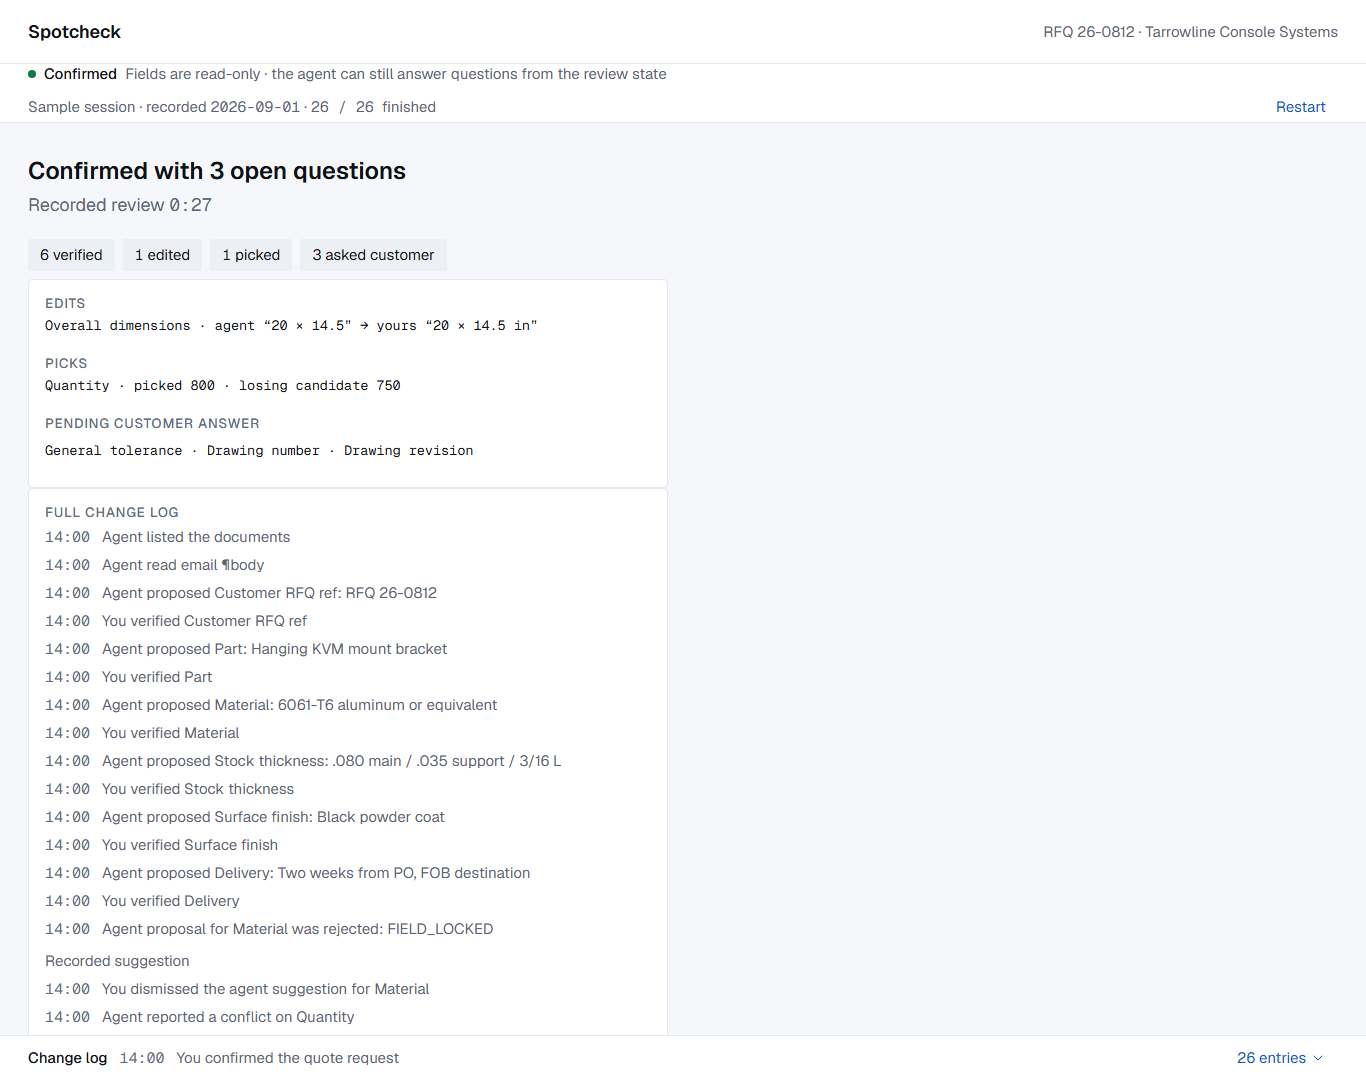
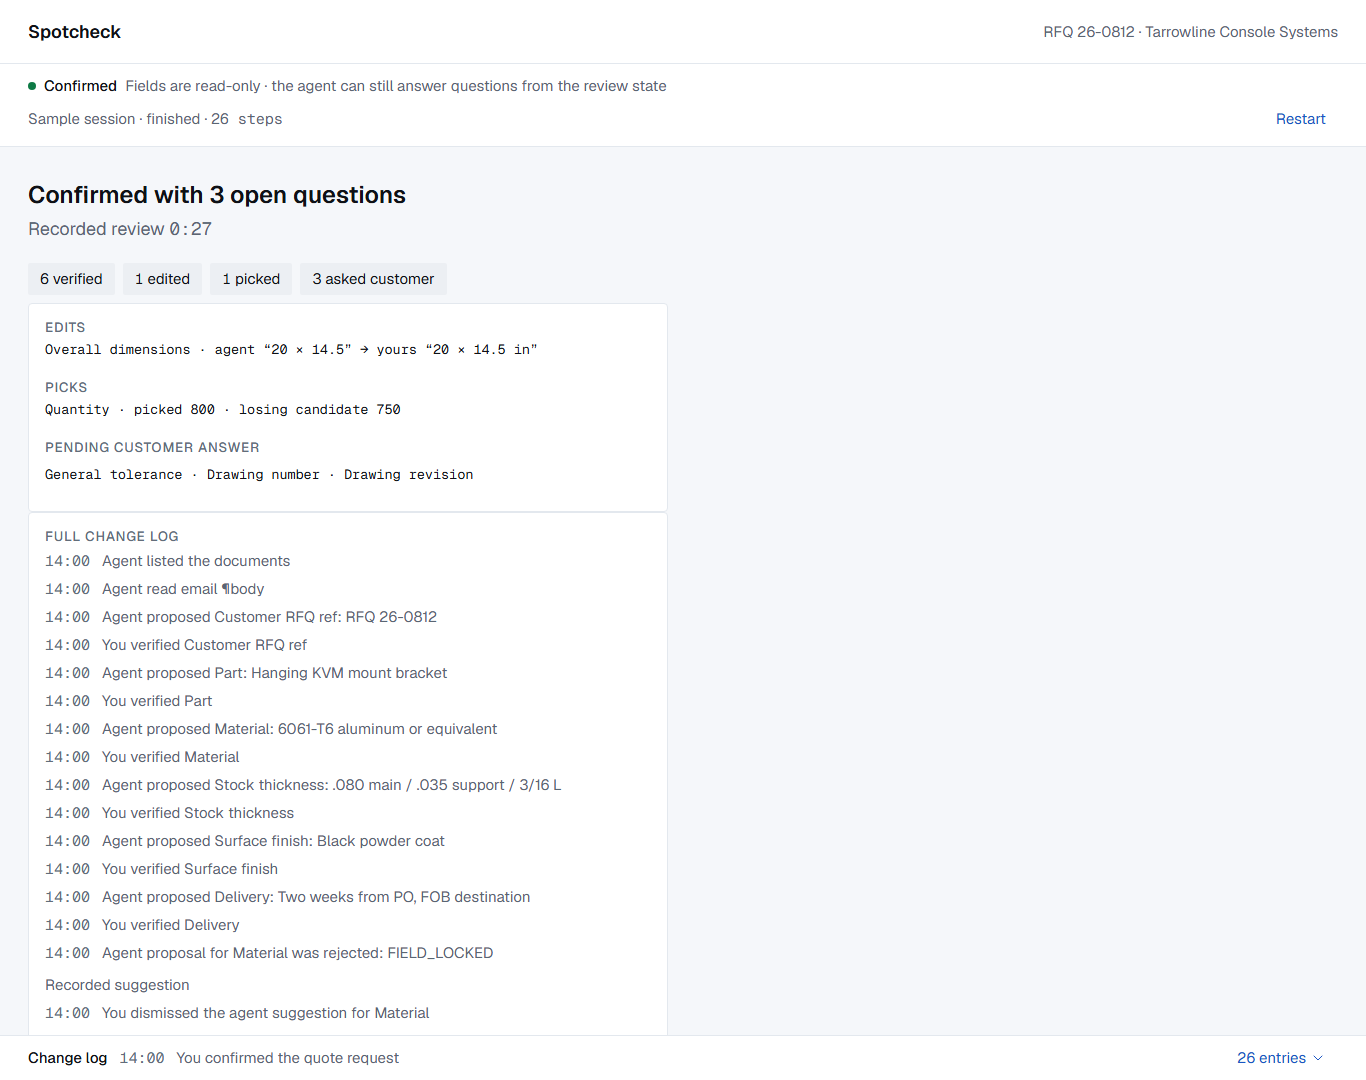
P3.1 replay row: watch, stop, step, start again
The row says where the recording is and offers only what the state
needs: Pause while it plays, Play with Next step and Restart while it
is paused, Restart when it has finished or stopped. The next-step
phrase appears only while paused, the control slot holds the width of
the three-button set so nothing shifts, and the strip grows around the
row instead of standing it on the hairline. Export session lives in the
log drawer and the summary.

Changed region(s): [[0.0, 0.1528, 0.3997, 0.9472], [0.0, 0.0611, 0.4919, 0.1222], [0.9224, 0.0917, 0.9839, 0.1222]]

diff --git a/e2e/replay.spec.ts b/e2e/replay.spec.ts
@@ -11,7 +11,7 @@ const counter = (page: Page) => replay(page).locator('.numeric').last();
 const start = async (page: Page) => {
   await page.evaluate(() => document.fonts.ready);
   await page.getByRole('button', { name: 'Play sample session', exact: true }).click();
-  await expect(counter(page)).toHaveText(`0 / ${total}`);
+  await expect(counter(page)).toHaveText(`0 of ${total}`);
 };
 const finish = async (page: Page) => {
   await page.evaluate(() => document.fonts.ready);
@@ -58,17 +58,21 @@ test('B1 controls advance, pause, step, restart and confirm; live strip exports'
   await replay(page).getByRole('button', { name: 'Pause' }).click();
   await page.clock.runFor(5000);
   await expect(counter(page)).toHaveText(advanced!);
-  await replay(page).getByRole('button', { name: 'Next call' }).click();
-  await expect(counter(page)).toHaveText(`${Number(advanced!.split(' / ')[0]) + 1} / ${total}`);
-  const exported = await download(page, '.status-strip');
+  await replay(page).getByRole('button', { name: 'Next step' }).click();
+  await expect(counter(page)).toHaveText(`${Number(advanced!.split(' of ')[0]) + 1} of ${total}`);
+  // Export leaves the strip: it lives in the log drawer and in the summary.
+  await expect(page.locator('.status-strip').getByRole('button', { name: 'Export session' })).toHaveCount(0);
+  await page.getByRole('button', { name: /entr(y|ies)$/ }).click();
+  const exported = await download(page, '.change-log');
   expect(exported.data.steps.length).toBeGreaterThan(0);
+  await page.getByRole('button', { name: 'Close' }).click();
   await replay(page).getByRole('button', { name: 'Restart' }).click();
-  await expect(counter(page)).toHaveText(`0 / ${total}`);
+  await expect(counter(page)).toHaveText(`0 of ${total}`);
   await expect(page.locator('.field-row__badge')).toHaveCount(11);
   await expect(page.locator('.field-row__badge').filter({ hasText: 'Not extracted' })).toHaveCount(11);
   await expect(replay(page).getByRole('button', { name: 'Play', exact: true })).toBeFocused();
   await finish(page);
-  await expect(counter(page)).toHaveText(`${total} / ${total}`);
+  await expect(replay(page)).toContainText(`finished · ${total} steps`);
   await expect(replay(page).getByRole('button')).toHaveCount(1);
   await expect(page.locator('.status-strip__summary')).toContainText('Confirmed');
   await expect(page.locator('.status-strip').getByRole('button', { name: 'Export session' })).toHaveCount(0);
@@ -98,7 +102,7 @@ test('take-over logs the skipped estimator step and viewer confirmation shows bo
   await replay(page).getByRole('button', { name: 'Pause' }).click();
   await page.locator('[data-field-id="customer_rfq_ref"]').getByRole('button', { name: 'Verify', exact: true }).click();
   const confirmIndex = fixture.steps.findIndex(step => step.actor === 'estimator' && step.action?.type === 'confirm');
-  while (Number((await counter(page).innerText()).split(' / ')[0]) < confirmIndex) await replay(page).getByRole('button', { name: 'Next call' }).click();
+  while (Number((await counter(page).innerText()).split(' of ')[0]) < confirmIndex) await replay(page).getByRole('button', { name: 'Next step' }).click();
   await page.clock.runFor(120_000);
   await page.getByRole('button', { name: 'Confirm quote request' }).click();
   await expect(page.locator('.confirm-summary__timer')).toContainText(/Recorded review .* · this run 2:/);
@@ -166,19 +170,21 @@ for (const width of [1920, 1366, 390]) {
       await page.screenshot({ path, animations: 'disabled' });
       await testInfo.attach(`${state}-${width}`, { path, contentType: 'image/png' });
       expect(await page.evaluate(() => document.documentElement.scrollWidth <= innerWidth)).toBe(true);
-      expect(await counter(page).evaluate(element => element.getBoundingClientRect().height)).toBeLessThanOrEqual(20);
+      // A stopped row carries a message instead of a count.
+      if (await counter(page).count()) {
+        expect(await counter(page).evaluate(element => element.getBoundingClientRect().height)).toBeLessThanOrEqual(20);
+      }
       for (const button of await replay(page).getByRole('button').all()) {
         const box = (await button.boundingBox())!;
         expect(box.height).toBeGreaterThanOrEqual(width < 1024 ? 44 : 24);
       }
     };
-    await start(page); await page.clock.runFor(3000); await capture('playing');
-    await replay(page).getByRole('button', { name: 'Pause' }).click(); await capture('paused');
-    if (width < 1024) {
-      const text = (await page.locator('.replay-controls__text').boundingBox())!;
-      const actions = (await page.locator('.replay-controls__actions').boundingBox())!;
-      expect(actions.y).toBeGreaterThanOrEqual(text.y + text.height);
-    }
+    await start(page); await page.clock.runFor(3000);
+    await expect(replay(page).getByRole('button')).toHaveCount(1);
+    await capture('playing');
+    await replay(page).getByRole('button', { name: 'Pause' }).click();
+    await expect(replay(page).getByRole('button')).toHaveCount(3);
+    await capture('paused');
     await finish(page); await capture('ended');
     await page.reload();
     await executeTool(page, 'propose_field', { field_id: 'delivery', value: 'A long delivery request for the complete powder-coated bracket assembly with all mounting hardware and packing documentation', source_refs: ['email:p5'] });
@@ -196,3 +202,35 @@ for (const width of [1920, 1366, 390]) {
     await capture('error');
   });
 }
+
+// The row's whole job is to be readable while it runs: one line of text with
+// the controls beside it, and nothing moving as the state changes.
+for (const width of [770, 820, 1024]) {
+  test(`${width}px keeps the replay text on one line with the controls beside it`, async ({ page }) => {
+    await page.setViewportSize({ width, height: 900 });
+    await page.goto('/');
+    await start(page);
+    await page.clock.runFor(3000);
+
+    const measure = async () => {
+      await page.evaluate(() => document.fonts.ready);
+      const line = (await replay(page).locator('.replay-controls__text > span').first().boundingBox())!;
+      const actions = (await page.locator('.replay-controls__actions').boundingBox())!;
+      const leading = await page.locator('.replay-controls').evaluate(element => Number.parseFloat(getComputedStyle(element).lineHeight));
+      return { lines: Math.round(line.height / leading), actionsX: actions.x, lineY: line.y, actionsY: actions.y };
+    };
+
+    const playing = await measure();
+    expect(playing.lines).toBe(1);
+    expect(playing.actionsY).toBeLessThan(playing.lineY + leadingGuard);
+
+    await replay(page).getByRole('button', { name: 'Pause' }).click();
+    const paused = await measure();
+    expect(paused.lines).toBe(1);
+    expect(paused.actionsY).toBeLessThan(paused.lineY + leadingGuard);
+    // The slot is the width of the three-button set, so nothing shifts.
+    expect(paused.actionsX).toBe(playing.actionsX);
+  });
+}
+
+const leadingGuard = 24;

diff --git a/src/components/ReplayControls.test.tsx b/src/components/ReplayControls.test.tsx
@@ -8,28 +8,51 @@ import { ReplayControls } from './ReplayControls';
 
 afterEach(async () => { cleanup(); await controller.leave(); localStorage.clear(); vi.restoreAllMocks(); });
 
-test('playing and paused controls preserve focus; restart focuses Play and resets the counter', async () => {
+const row = () => document.querySelector('.replay-controls__text')!;
+const buttons = () => screen.getAllByRole('button').map(button => button.textContent);
+
+test('playing offers Pause alone and names the recording, the step and the total', async () => {
   await controller.startSample();
   render(<ReplayControls />);
-  const toggle = screen.getByRole('button', { name: 'Pause' }); toggle.focus();
-  fireEvent.click(toggle);
-  expect(screen.getByRole('button', { name: 'Play' })).toHaveFocus();
-  await act(async () => { await controller.next(); });
-  fireEvent.click(screen.getByRole('button', { name: 'Restart' }));
-  expect(screen.getByRole('button', { name: 'Play' })).toHaveFocus();
-  expect(screen.getByText(`0 / ${controller.getSnapshot().total}`)).toBeInTheDocument();
+
+  expect(row()).toHaveTextContent(`Sample session · recorded 2026-09-01 · step 0 of ${controller.getSnapshot().total}`);
+  expect(row()).not.toHaveTextContent('next:');
+  expect(buttons()).toEqual(['Pause']);
 });
 
-test('Next call is disabled during an in-flight step', async () => {
+test('pausing adds the next step and the three controls, and keeps focus on the toggle', async () => {
+  await controller.startSample();
+  render(<ReplayControls />);
+  const toggle = screen.getByRole('button', { name: 'Pause' });
+  toggle.focus();
+  fireEvent.click(toggle);
+
+  expect(screen.getByRole('button', { name: 'Play' })).toHaveFocus();
+  expect(buttons()).toEqual(['Play', 'Next step', 'Restart']);
+  expect(row()).toHaveTextContent('next: agent lists the documents');
+});
+
+test('Restart resets the counter and focuses Play', async () => {
+  await controller.startSample();
+  render(<ReplayControls />);
+  fireEvent.click(screen.getByRole('button', { name: 'Pause' }));
+  await act(async () => { await controller.next(); });
+  fireEvent.click(screen.getByRole('button', { name: 'Restart' }));
+
+  expect(screen.getByRole('button', { name: 'Play' })).toHaveFocus();
+  expect(row()).toHaveTextContent(`step 0 of ${controller.getSnapshot().total}`);
+});
+
+test('Next step is disabled during an in-flight step', async () => {
   await controller.startSample(); controller.pause();
   let release!: () => void;
   vi.spyOn(tools, 'executeTool').mockImplementationOnce(() => new Promise(resolve => { release = () => resolve({}); }));
   render(<ReplayControls />);
   let pending!: Promise<boolean>;
   act(() => { pending = controller.next(); });
-  expect(screen.getByRole('button', { name: 'Next call' })).toBeDisabled();
+  expect(screen.getByRole('button', { name: 'Next step' })).toBeDisabled();
   await act(async () => { release(); await pending; });
-  expect(screen.getByRole('button', { name: 'Next call' })).toBeEnabled();
+  expect(screen.getByRole('button', { name: 'Next step' })).toBeEnabled();
 });
 
 test('focusPause falls back to Restart when the row carries no Pause', async () => {
@@ -42,14 +65,20 @@ test('focusPause falls back to Restart when the row carries no Pause', async () 
   expect(screen.getByRole('button', { name: 'Restart' })).toHaveFocus();
 });
 
-test('error and ended rows show Restart only with their status text', async () => {
+test('a stopped replay names the step it stopped on and offers Restart alone', async () => {
   await controller.startSample(); controller.pause();
   vi.spyOn(tools, 'executeTool').mockRejectedValueOnce(new Error('Tool unavailable'));
   render(<ReplayControls />);
   await act(async () => { await controller.next(); });
+
   expect(screen.getByText('stopped at step 1: Tool unavailable')).toBeInTheDocument();
-  expect(screen.getAllByRole('button')).toHaveLength(1);
-  await act(async () => { await controller.startImported({ recorded_at: '2026-09-01', steps: [] }); });
-  expect(screen.getByText('finished')).toBeInTheDocument();
-  expect(screen.getAllByRole('button')).toHaveLength(1);
+  expect(buttons()).toEqual(['Restart']);
+});
+
+test('a finished replay counts the steps it ran and offers Restart alone', async () => {
+  await act(async () => { await controller.startImported({ recorded_at: '2026-09-01', steps: [] }, 'Imported session'); });
+  render(<ReplayControls />);
+
+  expect(row()).toHaveTextContent('Imported session · finished · 0 steps');
+  expect(buttons()).toEqual(['Restart']);
 });

diff --git a/src/components/ReplayControls.tsx b/src/components/ReplayControls.tsx
@@ -1,13 +1,21 @@
 import { useEffect, useLayoutEffect, useRef, useState } from 'react';
+import { useNarrowLayout } from '../hooks/useNarrowLayout';
 import { useReplay } from '../hooks/useReplay';
 import { OpposingArrowsIcon } from '../icons';
+import { plural } from '../lib/format';
 import { next, pause, play, restart } from '../replay/controller';
 import { describeStep } from '../replay/describe';
 import { Button } from './Button';
 import { announce } from './LiveRegion';
 
+/**
+ * The replay serves one purpose: a person without an agent watches the recorded
+ * session at a human pace, stops to look, tries an action and starts again. The
+ * row says where the recording is and offers only the controls that state has.
+ */
 export function ReplayControls() {
   const replay = useReplay();
+  const narrow = useNarrowLayout();
   const toggle = useRef<HTMLButtonElement>(null);
   const restartButton = useRef<HTMLButtonElement>(null);
   const focused = useRef(replay.focusRequest);
@@ -22,19 +30,45 @@ export function ReplayControls() {
     (toggle.current ?? restartButton.current)?.focus();
   }, [replay.focusRequest]);
   if (!replay.active) return null;
+
+  const running = !replay.ended && !replay.error;
+  // "Sample session" narrows to "Sample": the lane below 1024 has no room for
+  // the recording date either, so the short line keeps the step count instead.
+  const short = replay.label.split(' ')[0];
+  const counter = <span className="numeric">{replay.position} of {replay.total}</span>;
+
   return (
     <div className="replay-controls" role="group" aria-label="Replay controls">
       <div className="replay-controls__text">
-        <span>{replay.label} · recorded <span className="numeric">{replay.recordedAt.slice(0, 10)}</span> · <span className="numeric">{replay.position} / {replay.total}</span></span>
-        {replay.error ? <span className="session-error"><OpposingArrowsIcon />stopped at step {replay.position + 1}: {replay.error}</span>
-          : <span className="replay-controls__next">{replay.ended ? 'finished' : replay.next ? `next: ${describeStep(replay.next)}` : ''}</span>}
+        {replay.error ? (
+          <span className="session-error"><OpposingArrowsIcon />stopped at step {replay.position + 1}: {replay.error}</span>
+        ) : replay.ended ? (
+          <span>{narrow ? `${short} · finished` : <>{replay.label} · finished · <span className="numeric">{plural(replay.total, 'step', 'steps')}</span></>}</span>
+        ) : (
+          <span>
+            {narrow
+              ? <>{short} · {counter}</>
+              : <>{replay.label} · recorded <span className="numeric">{replay.recordedAt.slice(0, 10)}</span> · step {counter}</>}
+          </span>
+        )}
+        {running && !replay.playing && replay.next ? (
+          <span className="replay-controls__next">next: {describeStep(replay.next)}</span>
+        ) : null}
       </div>
       <div className="replay-controls__actions">
-        {!replay.ended && !replay.error && <>
-          <Button ref={toggle} variant="secondary" onClick={replay.playing ? pause : play}>{replay.playing ? 'Pause' : 'Play'}</Button>
-          <Button variant="text" disabled={replay.busy} onClick={() => void next()}>Next call</Button>
-        </>}
-        <Button ref={restartButton} variant="text" disabled={replay.busy} onClick={() => { restart(); setRestartFocus(value => value + 1); }}>Restart</Button>
+        {running && (
+          <Button ref={toggle} variant="secondary" onClick={replay.playing ? pause : play}>
+            {replay.playing ? 'Pause' : 'Play'}
+          </Button>
+        )}
+        {running && !replay.playing && (
+          <Button variant="text" disabled={replay.busy} onClick={() => void next()}>Next step</Button>
+        )}
+        {!replay.playing && (
+          <Button ref={restartButton} variant="text" disabled={replay.busy} onClick={() => { restart(); setRestartFocus(value => value + 1); }}>
+            Restart
+          </Button>
+        )}
       </div>
     </div>
   );

diff --git a/src/styles/components.css b/src/styles/components.css
@@ -261,6 +261,8 @@
   font-weight: 600;
 }
 
+/* The strip's height is a floor, not a fixed value: the block padding stays
+   whatever the strip carries, so the replay row never sits on the hairline. */
 .status-strip {
   min-height: var(--control-large);
   position: relative;
@@ -268,12 +270,6 @@
   flex-direction: column;
   justify-content: center;
   gap: var(--space-2);
-}
-
-/* Before the first tool call the strip says what the page is; the two lines
-   then need the row padding the one-line states get from their min-height. */
-.status-strip--no-api,
-.status-strip--waiting {
   padding-block: var(--space-3);
 }
 
@@ -1474,6 +1470,26 @@
   color: var(--ink-secondary);
 }
 
+/* The slot holds the width of the three-button set (Play, Next step, Restart),
+   so moving between states never shifts the controls sideways. */
+.replay-controls__actions {
+  justify-content: flex-end;
+  min-width: calc(15 * var(--space-4));
+}
+
+/* Under the 680px column there is no room for the set beside the line, so the
+   row stacks and the slot gives its width back. */
+@media (width < 37.5rem) {
+  .replay-controls {
+    align-items: flex-start;
+    flex-direction: column;
+  }
+
+  .replay-controls__actions {
+    min-width: 0;
+  }
+}
+
 .replay-controls .numeric {
   white-space: nowrap;
 }
@@ -1526,25 +1542,10 @@
 }
 
 @media (max-width: 1023px) {
-  .status-strip:has(.replay-controls) .status-strip__line {
-    display: contents;
-  }
-
-  .status-strip__export-slot {
-    order: 2;
-  }
-
-  .status-strip__export-slot .button {
-    width: auto;
-  }
-
-  .replay-controls {
-    align-items: flex-start;
-    flex-direction: column;
-  }
-
-  .replay-controls__actions {
-    flex-wrap: wrap;
+  /* The controls stay beside the row text at every width; only the next-step
+     phrase drops to its own line under it. */
+  .replay-controls__next {
+    width: 100%;
   }
 
   .replay-controls .button--secondary {

diff --git a/src/components/StatusStrip.tsx b/src/components/StatusStrip.tsx
@@ -8,7 +8,6 @@ import { Button } from './Button';
 import { useReplay } from '../hooks/useReplay';
 import { startSample } from '../replay/controller';
 import { ReplayControls } from './ReplayControls';
-import { ExportSessionButton } from './ExportSessionButton';
 
 const PROMPT = 'Extract this RFQ into a quote request';
 const MARKER_MS = 2_000;
@@ -139,7 +138,6 @@ export function StatusStrip({
         {preLive && (
           <Button size="compact" variant={state === 'no-api' ? 'primary' : 'secondary'} onClick={onPlaySample}>Play sample session</Button>
         )}
-        {state === 'live' && <div className="status-strip__export-slot"><ExportSessionButton /></div>}
       </div>
       <ReplayControls />
       {toolsOpen && state === 'live' && (
